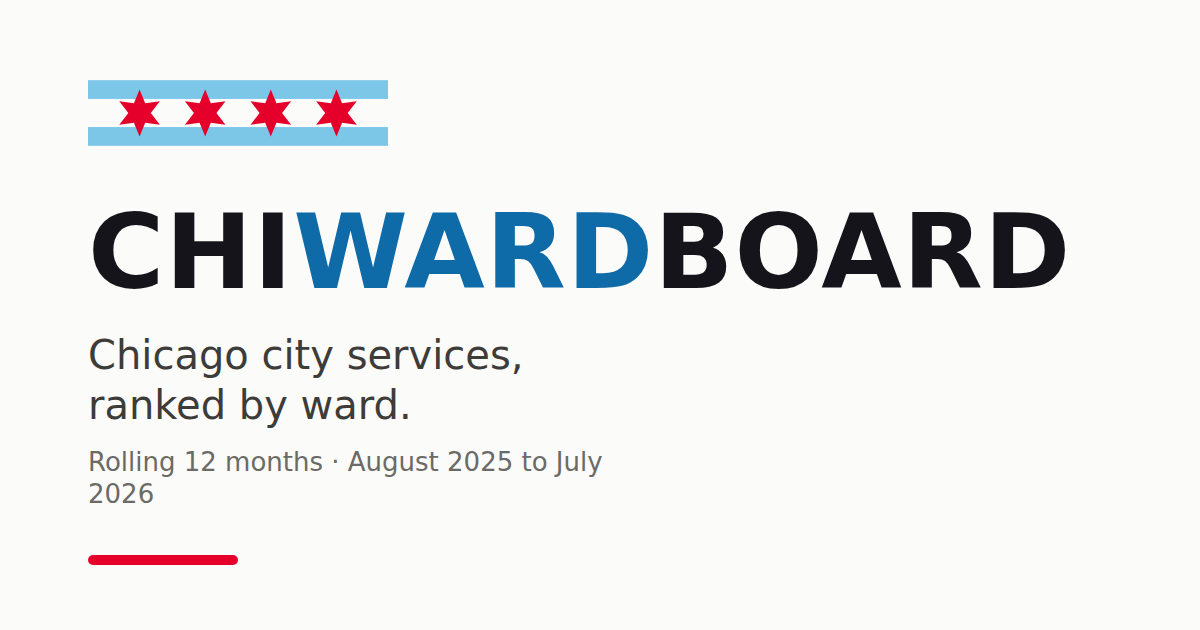
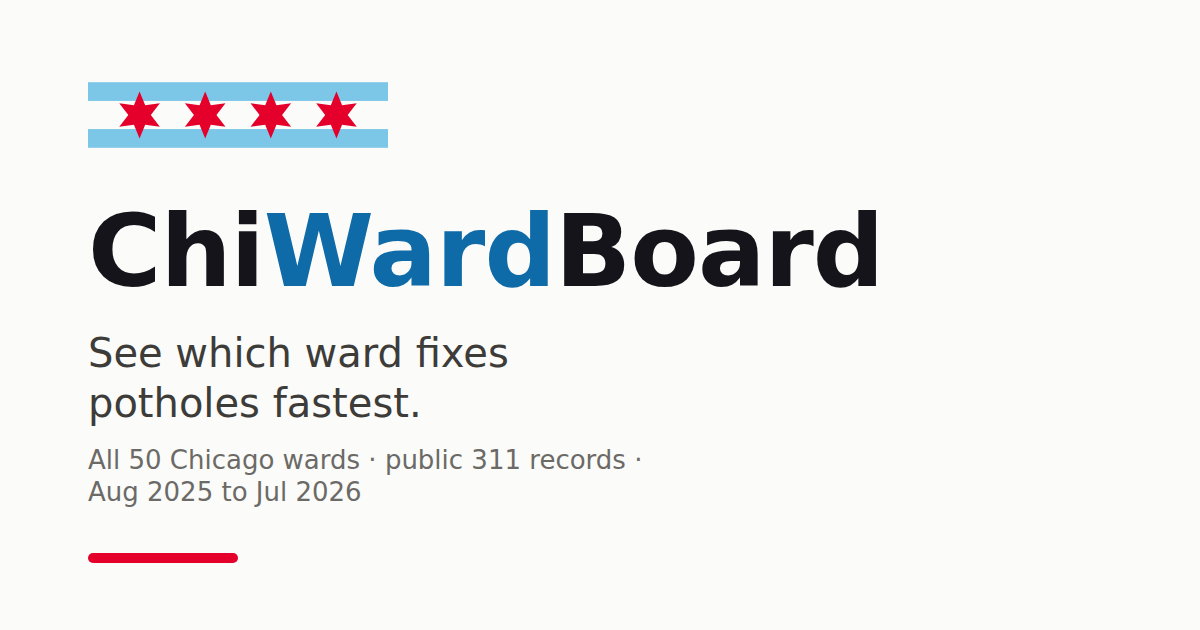
Front page: filters between map and table, location-first ward finder, new tagline
Order: the type filters now sit directly between the map and the ranked
table, and find-your-ward moves out of the hero into the top of the map
column - above the map, never below the table. Both live in a left column
alongside the table, so on phones the order is finder, map, filters, table.

Ward finder rebalanced around what people will actually use. 'Use my
location' becomes a full-width filled button (143px outline -> 694px
filled); the address box drops to a secondary line at less than half the
width (1051px -> 523px) with a quiet 'Go'. Block height falls 147px ->
104px at 390 and 92px -> 89px at 1440.

Type scale shifts weight onto the board: headline 36px -> 32px (27px on
phones), section headings 21px -> 22px, tagline up to 16.5px since it now
carries the pitch.

Tagline replaced. 'City services, ranked by ward. Public 311 records,
plain language, receipts.' described the mechanism; 'See which ward fixes
potholes fastest.' names the argument. Applied to the subline, meta
description, Open Graph and Twitter descriptions, and the share card.

Wordmark set as ChiWardBoard wherever the colour treatment is
unavailable - titles, og:site_name, image alt and the share card - so the
three words stay legible. The on-site coloured treatment is unchanged.

Caught while verifying: spanning the table across four grid rows stretched
them and pushed the map to y=3349 on desktop. Fixed with a proper left
column wrapper.

diff --git a/index.html b/index.html
@@ -3,26 +3,26 @@
 <head>
 <meta charset="utf-8">
 <meta name="viewport" content="width=device-width, initial-scale=1">
-<title>CHIWARDBOARD - Chicago city services, ranked by ward</title>
-<meta name="description" content="Which Chicago wards close 311 requests fast, and which do not. Potholes, rats, graffiti and more, ranked across all 50 wards from the city’s public records.">
+<title>ChiWardBoard - See which ward fixes potholes fastest</title>
+<meta name="description" content="See which Chicago ward fixes potholes fastest - and which is slowest on rats, graffiti, street lights and more. Public 311 records, all 50 wards, with receipts.">
 <link rel="canonical" href="https://chiwardboard.vercel.app/">
 <link rel="icon" href="/favicon.ico" sizes="any">
 <link rel="icon" type="image/svg+xml" href="/assets/icon.svg">
 <link rel="icon" type="image/png" sizes="32x32" href="/assets/favicon-32x32.png">
 <link rel="icon" type="image/png" sizes="16x16" href="/assets/favicon-16x16.png">
 <link rel="apple-touch-icon" sizes="180x180" href="/assets/apple-touch-icon.png">
-<meta property="og:site_name" content="chiwardboard">
+<meta property="og:site_name" content="ChiWardBoard">
 <meta property="og:type" content="website">
 <meta property="og:url" content="https://chiwardboard.vercel.app/">
-<meta property="og:title" content="CHIWARDBOARD - Chicago city services, ranked by ward">
-<meta property="og:description" content="Which Chicago wards close 311 requests fast, and which do not. Potholes, rats, graffiti and more, ranked across all 50 wards from the city’s public records.">
+<meta property="og:title" content="ChiWardBoard - See which ward fixes potholes fastest">
+<meta property="og:description" content="See which Chicago ward fixes potholes fastest - and which is slowest on rats, graffiti, street lights and more. Public 311 records, all 50 wards, with receipts.">
 <meta property="og:image" content="https://chiwardboard.vercel.app/assets/og.png">
 <meta property="og:image:width" content="1200">
 <meta property="og:image:height" content="630">
-<meta property="og:image:alt" content="chiwardboard - Chicago city services, ranked by ward">
+<meta property="og:image:alt" content="ChiWardBoard - see which ward fixes potholes fastest">
 <meta name="twitter:card" content="summary_large_image">
-<meta name="twitter:title" content="CHIWARDBOARD - Chicago city services, ranked by ward">
-<meta name="twitter:description" content="Which Chicago wards close 311 requests fast, and which do not. Potholes, rats, graffiti and more, ranked across all 50 wards from the city’s public records.">
+<meta name="twitter:title" content="ChiWardBoard - See which ward fixes potholes fastest">
+<meta name="twitter:description" content="See which Chicago ward fixes potholes fastest - and which is slowest on rats, graffiti, street lights and more. Public 311 records, all 50 wards, with receipts.">
 <meta name="twitter:image" content="https://chiwardboard.vercel.app/assets/og.png">
 <link rel="preconnect" href="https://fonts.googleapis.com">
 <link rel="preconnect" href="https://fonts.gstatic.com" crossorigin>
@@ -45,7 +45,7 @@
       </svg>
       <h1>chi<span class="wm-accent">ward</span>board</h1>
     </div>
-    <p class="tagline">City services, ranked by ward. Public 311 records, plain language, receipts.</p>
+    <p class="tagline">See which ward fixes potholes fastest.</p>
   </header>
 
   <section id="hook" class="hook" hidden>
@@ -59,7 +59,18 @@
 
   <section id="board" hidden>
     <div class="board-grid">
-      <nav id="types" class="types" aria-label="Request type"></nav>
+      <div class="board-left">
+      <section id="finder" class="finder" hidden>
+        <button type="button" id="finder-gps" class="gps-btn" title="Checked against the ward map in your browser; your location is never sent anywhere">Use my location</button>
+        <form id="finder-form" class="addr-form">
+          <label class="finder-label" for="finder-input">or look up an address</label>
+          <input id="finder-input" type="search" placeholder="1060 W Addison St" autocomplete="street-address">
+          <button type="submit" class="addr-go">Go</button>
+        </form>
+        <p class="finder-note" id="finder-note">Location stays in your browser. Or just click a ward on the map.</p>
+      </section>
+      <section id="mine" class="mine" hidden></section>
+
       <div class="map-pane">
         <h2 class="pane-title" id="map-title"></h2>
         <p class="board-note" id="map-hint"></p>
@@ -68,6 +79,8 @@
           <div id="map-tip" class="map-tip" hidden></div>
         </div>
         <div class="legend" id="legend"></div>
+      </div>
+      <nav id="types" class="types" aria-label="Request type"></nav>
       </div>
       <div class="table-pane">
         <h2 class="pane-title" id="board-title"></h2>
@@ -90,20 +103,6 @@
       </div>
     </div>
   </section>
-
-  <section id="finder" class="finder" hidden>
-    <form id="finder-form">
-      <label class="finder-label" for="finder-input">Find your ward</label>
-      <div class="finder-row">
-        <input id="finder-input" type="search" placeholder="Your street address, e.g. 1060 W Addison St" autocomplete="street-address">
-        <button type="submit">Look up</button>
-        <button type="button" id="finder-gps" title="Use your location - checked against the ward map right here in your browser; your location is never sent anywhere">Use my location</button>
-      </div>
-    </form>
-    <p class="finder-note" id="finder-note">Addresses are matched against the city&rsquo;s own 311 records. Location stays in your browser.</p>
-  </section>
-
-  <section id="mine" class="mine" hidden></section>
 
   <section id="method" class="method" hidden>
     <h2>How we counted</h2>

diff --git a/assets/app.css b/assets/app.css
@@ -53,12 +53,12 @@ a { color: inherit; }
   margin: 0; text-transform: uppercase;
 }
 .wm-accent { color: var(--accent); }
-.tagline { color: var(--ink-2); margin: 6px 0 0; }
+.tagline { color: var(--ink-2); margin: 6px 0 0; font-size: 16.5px; font-weight: 500; }
 
 /* hook */
-.hook { margin: 32px 0 22px; }
+.hook { margin: 26px 0 18px; }
 .hook-line {
-  font-family: var(--display); font-weight: 700; font-size: 36px; line-height: 1.1;
+  font-family: var(--display); font-weight: 700; font-size: 32px; line-height: 1.12;
   text-transform: uppercase; letter-spacing: 0.01em; margin: 0; max-width: 24ch; text-wrap: balance;
 }
 .hook-sub { color: var(--ink-2); margin: 12px 0 0; max-width: 62ch; }
@@ -75,7 +75,33 @@ a { color: inherit; }
 .types button[aria-pressed="true"] { background: var(--accent); border-color: var(--accent); color: #fff; }
 
 /* finder */
-.finder { margin: 30px 0 0; padding: 10px 12px; background: var(--surface); border: 1px solid var(--border); border-radius: 8px; }
+/* The location button is what most people will use, so it leads and it is filled.
+   The address box is the fallback: narrower, quieter, on its own line. */
+.finder { margin: 0; padding: 0; background: none; border: 0; }
+.gps-btn {
+  display: block; width: 100%; box-sizing: border-box;
+  font: 600 14px var(--sans); cursor: pointer;
+  background: var(--accent); color: #fff; border: 1px solid var(--accent);
+  border-radius: 8px; padding: 10px 14px; text-align: center;
+}
+.gps-btn:hover { filter: brightness(1.08); }
+.gps-btn:focus-visible { outline: 2px solid var(--ink); outline-offset: 2px; }
+.addr-form { display: flex; align-items: center; gap: 6px; margin-top: 6px; }
+.addr-form .finder-label {
+  font: 500 11px/1 var(--sans); color: var(--muted); text-transform: none;
+  letter-spacing: 0; margin: 0; flex: none; white-space: nowrap;
+}
+.addr-form input {
+  flex: 1 1 auto; min-width: 0; font: 12.5px var(--sans); color: var(--ink);
+  background: var(--page); border: 1px solid var(--grid); border-radius: 6px; padding: 4px 8px;
+}
+.addr-form input:focus { outline: 2px solid var(--accent); outline-offset: -1px; }
+.addr-go {
+  flex: none; font: 600 12px var(--sans); cursor: pointer;
+  background: transparent; color: var(--accent); border: 1px solid var(--grid);
+  border-radius: 6px; padding: 4px 10px;
+}
+.addr-go:hover { border-color: var(--accent); }
 .finder-label { display: block; font: 700 10.5px/1 var(--sans); text-transform: uppercase; letter-spacing: 0.07em; color: var(--muted); margin-bottom: 6px; }
 .finder-row { display: flex; gap: 8px; flex-wrap: wrap; }
 .finder-row input {
@@ -88,10 +114,10 @@ a { color: inherit; }
   background: var(--accent); color: #fff; border: 1px solid var(--accent);
 }
 .finder-row button#finder-gps { background: transparent; color: var(--accent); }
-.finder-note { color: var(--muted); font-size: 11.5px; margin: 6px 0 0; }
+.finder-note { color: var(--muted); font-size: 11px; line-height: 1.35; margin: 5px 0 0; }
 
 /* your-ward card */
-.mine { margin: 10px 0 0; padding: 12px 14px; border-left: 4px solid var(--chi-red); background: var(--surface); border-radius: 0 10px 10px 0; border-top: 1px solid var(--border); border-right: 1px solid var(--border); border-bottom: 1px solid var(--border); }
+.mine { margin: 8px 0 0; padding: 10px 12px; border-left: 4px solid var(--chi-red); background: var(--surface); border-radius: 0 10px 10px 0; border-top: 1px solid var(--border); border-right: 1px solid var(--border); border-bottom: 1px solid var(--border); }
 .mine h3 { font-family: var(--display); text-transform: uppercase; font-size: 20px; margin: 0 0 4px; }
 .mine p { margin: 0; color: var(--ink-2); }
 .mine .err { color: var(--ink-2); }
@@ -99,14 +125,15 @@ a { color: inherit; }
 /* board layout */
 .board-grid {
   display: grid; grid-template-columns: minmax(0, 1fr) minmax(540px, 600px);
-  grid-template-areas: "filters filters" "map table";
+  grid-template-areas: "left table";
   gap: 18px 26px; align-items: start;
 }
-.board-grid > #types { grid-area: filters; }
-.board-grid > .map-pane { grid-area: map; }
+.board-grid > .board-left { grid-area: left; min-width: 0; display: flex; flex-direction: column; gap: 12px; }
+.board-left > #types { margin: 0; }
+
 .board-grid > .table-pane { grid-area: table; }
-@media (max-width: 820px) { .board-grid { grid-template-columns: minmax(0, 1fr); grid-template-areas: "filters" "map" "table"; } }
-.pane-title { font-family: var(--display); text-transform: uppercase; font-weight: 700; font-size: 21px; margin: 0 0 8px; }
+@media (max-width: 820px) { .board-grid { grid-template-columns: minmax(0, 1fr); grid-template-areas: "left" "table"; } }
+.pane-title { font-family: var(--display); text-transform: uppercase; font-weight: 700; font-size: 22px; margin: 0 0 8px; }
 .map-pane { position: sticky; top: 14px; min-width: 0; }
 @media (max-width: 820px) {
   .map-pane { position: static; }
@@ -211,7 +238,7 @@ td.c-ward a:hover { color: var(--accent); }
 @media (max-width: 480px) {
   .wordmark h1 { font-size: 25px; }
   .flag { width: 56px; height: 18px; }
-  .hook-line { font-size: 29px; }
+  .hook-line { font-size: 27px; }
 }
 
 /* ward office contact block */

diff --git a/ward.html b/ward.html
@@ -3,7 +3,7 @@
 <head>
 <meta charset="utf-8">
 <meta name="viewport" content="width=device-width, initial-scale=1">
-<title>Ward report card - CHIWARDBOARD</title>
+<title>Ward report card - ChiWardBoard</title>
 <meta name="description" content="One Chicago ward’s 311 response times across every request type on the board, with its alderperson’s office contact.">
 <link rel="canonical" href="https://chiwardboard.vercel.app/ward.html">
 <link rel="icon" href="/favicon.ico" sizes="any">
@@ -11,17 +11,17 @@
 <link rel="icon" type="image/png" sizes="32x32" href="/assets/favicon-32x32.png">
 <link rel="icon" type="image/png" sizes="16x16" href="/assets/favicon-16x16.png">
 <link rel="apple-touch-icon" sizes="180x180" href="/assets/apple-touch-icon.png">
-<meta property="og:site_name" content="chiwardboard">
+<meta property="og:site_name" content="ChiWardBoard">
 <meta property="og:type" content="article">
 <meta property="og:url" content="https://chiwardboard.vercel.app/ward.html">
-<meta property="og:title" content="Ward report card - CHIWARDBOARD">
+<meta property="og:title" content="Ward report card - ChiWardBoard">
 <meta property="og:description" content="One Chicago ward’s 311 response times across every request type on the board, with its alderperson’s office contact.">
 <meta property="og:image" content="https://chiwardboard.vercel.app/assets/og.png">
 <meta property="og:image:width" content="1200">
 <meta property="og:image:height" content="630">
-<meta property="og:image:alt" content="chiwardboard - Chicago city services, ranked by ward">
+<meta property="og:image:alt" content="ChiWardBoard - see which ward fixes potholes fastest">
 <meta name="twitter:card" content="summary_large_image">
-<meta name="twitter:title" content="Ward report card - CHIWARDBOARD">
+<meta name="twitter:title" content="Ward report card - ChiWardBoard">
 <meta name="twitter:description" content="One Chicago ward’s 311 response times across every request type on the board, with its alderperson’s office contact.">
 <meta name="twitter:image" content="https://chiwardboard.vercel.app/assets/og.png">
 <link rel="preconnect" href="https://fonts.googleapis.com">

diff --git a/terms.html b/terms.html
@@ -3,7 +3,7 @@
 <head>
 <meta charset="utf-8">
 <meta name="viewport" content="width=device-width, initial-scale=1">
-<title>Terms - CHIWARDBOARD</title>
+<title>Terms - ChiWardBoard</title>
 <meta name="description" content="Terms of use for chiwardboard: a dated snapshot of public city records, offered as-is, with no performance attributed to any officeholder.">
 <link rel="canonical" href="https://chiwardboard.vercel.app/terms.html">
 <link rel="icon" href="/favicon.ico" sizes="any">
@@ -11,17 +11,17 @@
 <link rel="icon" type="image/png" sizes="32x32" href="/assets/favicon-32x32.png">
 <link rel="icon" type="image/png" sizes="16x16" href="/assets/favicon-16x16.png">
 <link rel="apple-touch-icon" sizes="180x180" href="/assets/apple-touch-icon.png">
-<meta property="og:site_name" content="chiwardboard">
+<meta property="og:site_name" content="ChiWardBoard">
 <meta property="og:type" content="article">
 <meta property="og:url" content="https://chiwardboard.vercel.app/terms.html">
-<meta property="og:title" content="Terms - CHIWARDBOARD">
+<meta property="og:title" content="Terms - ChiWardBoard">
 <meta property="og:description" content="Terms of use for chiwardboard: a dated snapshot of public city records, offered as-is, with no performance attributed to any officeholder.">
 <meta property="og:image" content="https://chiwardboard.vercel.app/assets/og.png">
 <meta property="og:image:width" content="1200">
 <meta property="og:image:height" content="630">
-<meta property="og:image:alt" content="chiwardboard - Chicago city services, ranked by ward">
+<meta property="og:image:alt" content="ChiWardBoard - see which ward fixes potholes fastest">
 <meta name="twitter:card" content="summary_large_image">
-<meta name="twitter:title" content="Terms - CHIWARDBOARD">
+<meta name="twitter:title" content="Terms - ChiWardBoard">
 <meta name="twitter:description" content="Terms of use for chiwardboard: a dated snapshot of public city records, offered as-is, with no performance attributed to any officeholder.">
 <meta name="twitter:image" content="https://chiwardboard.vercel.app/assets/og.png">
 <link rel="preconnect" href="https://fonts.googleapis.com">

diff --git a/privacy.html b/privacy.html
@@ -3,7 +3,7 @@
 <head>
 <meta charset="utf-8">
 <meta name="viewport" content="width=device-width, initial-scale=1">
-<title>Privacy - CHIWARDBOARD</title>
+<title>Privacy - ChiWardBoard</title>
 <meta name="description" content="What chiwardboard collects and what it does not: no accounts, no tracking cookies, and location that never leaves your browser.">
 <link rel="canonical" href="https://chiwardboard.vercel.app/privacy.html">
 <link rel="icon" href="/favicon.ico" sizes="any">
@@ -11,17 +11,17 @@
 <link rel="icon" type="image/png" sizes="32x32" href="/assets/favicon-32x32.png">
 <link rel="icon" type="image/png" sizes="16x16" href="/assets/favicon-16x16.png">
 <link rel="apple-touch-icon" sizes="180x180" href="/assets/apple-touch-icon.png">
-<meta property="og:site_name" content="chiwardboard">
+<meta property="og:site_name" content="ChiWardBoard">
 <meta property="og:type" content="article">
 <meta property="og:url" content="https://chiwardboard.vercel.app/privacy.html">
-<meta property="og:title" content="Privacy - CHIWARDBOARD">
+<meta property="og:title" content="Privacy - ChiWardBoard">
 <meta property="og:description" content="What chiwardboard collects and what it does not: no accounts, no tracking cookies, and location that never leaves your browser.">
 <meta property="og:image" content="https://chiwardboard.vercel.app/assets/og.png">
 <meta property="og:image:width" content="1200">
 <meta property="og:image:height" content="630">
-<meta property="og:image:alt" content="chiwardboard - Chicago city services, ranked by ward">
+<meta property="og:image:alt" content="ChiWardBoard - see which ward fixes potholes fastest">
 <meta name="twitter:card" content="summary_large_image">
-<meta name="twitter:title" content="Privacy - CHIWARDBOARD">
+<meta name="twitter:title" content="Privacy - ChiWardBoard">
 <meta name="twitter:description" content="What chiwardboard collects and what it does not: no accounts, no tracking cookies, and location that never leaves your browser.">
 <meta name="twitter:image" content="https://chiwardboard.vercel.app/assets/og.png">
 <link rel="preconnect" href="https://fonts.googleapis.com">

diff --git a/about.html b/about.html
@@ -3,7 +3,7 @@
 <head>
 <meta charset="utf-8">
 <meta name="viewport" content="width=device-width, initial-scale=1">
-<title>About - CHIWARDBOARD</title>
+<title>About - ChiWardBoard</title>
 <meta name="description" content="What chiwardboard is, how each figure is computed from the city’s public 311 records, and how to get a correction made.">
 <link rel="canonical" href="https://chiwardboard.vercel.app/about.html">
 <link rel="icon" href="/favicon.ico" sizes="any">
@@ -11,17 +11,17 @@
 <link rel="icon" type="image/png" sizes="32x32" href="/assets/favicon-32x32.png">
 <link rel="icon" type="image/png" sizes="16x16" href="/assets/favicon-16x16.png">
 <link rel="apple-touch-icon" sizes="180x180" href="/assets/apple-touch-icon.png">
-<meta property="og:site_name" content="chiwardboard">
+<meta property="og:site_name" content="ChiWardBoard">
 <meta property="og:type" content="article">
 <meta property="og:url" content="https://chiwardboard.vercel.app/about.html">
-<meta property="og:title" content="About - CHIWARDBOARD">
+<meta property="og:title" content="About - ChiWardBoard">
 <meta property="og:description" content="What chiwardboard is, how each figure is computed from the city’s public 311 records, and how to get a correction made.">
 <meta property="og:image" content="https://chiwardboard.vercel.app/assets/og.png">
 <meta property="og:image:width" content="1200">
 <meta property="og:image:height" content="630">
-<meta property="og:image:alt" content="chiwardboard - Chicago city services, ranked by ward">
+<meta property="og:image:alt" content="ChiWardBoard - see which ward fixes potholes fastest">
 <meta name="twitter:card" content="summary_large_image">
-<meta name="twitter:title" content="About - CHIWARDBOARD">
+<meta name="twitter:title" content="About - ChiWardBoard">
 <meta name="twitter:description" content="What chiwardboard is, how each figure is computed from the city’s public 311 records, and how to get a correction made.">
 <meta name="twitter:image" content="https://chiwardboard.vercel.app/assets/og.png">
 <link rel="preconnect" href="https://fonts.googleapis.com">

diff --git a/assets/ward.js b/assets/ward.js
@@ -13,7 +13,7 @@
 
   // Per-ward identity so tabs, browser history and shared links are distinguishable.
   const BASE = 'https://chiwardboard.vercel.app';
-  const wTitle = `Ward ${ward} - CHIWARDBOARD`;
+  const wTitle = `Ward ${ward} - ChiWardBoard`;
   const aldName = ((D.aldermen || {})[ward] || {}).name;
   const wDesc = `How fast the city closes 311 requests in Chicago's Ward ${ward}` +
     (aldName ? ` (Alderperson ${aldName})` : '') +
